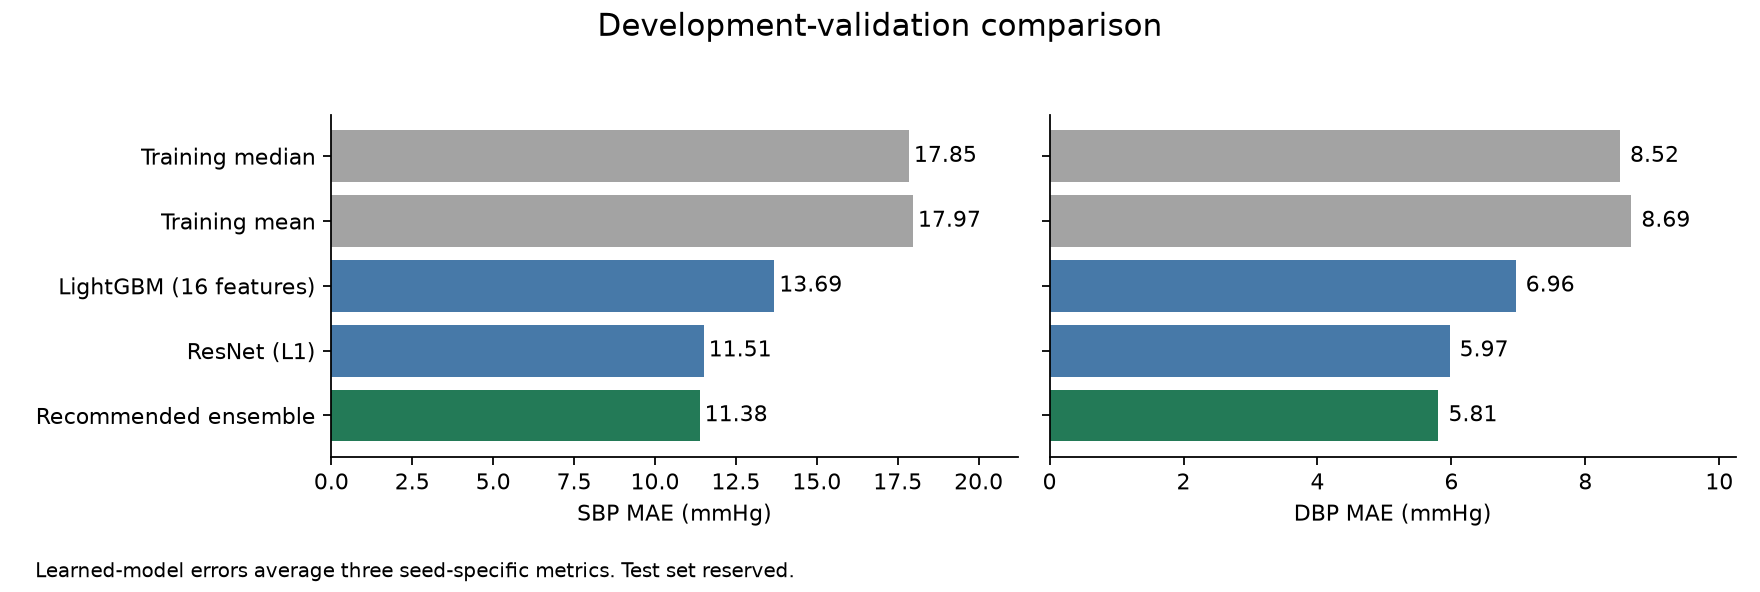
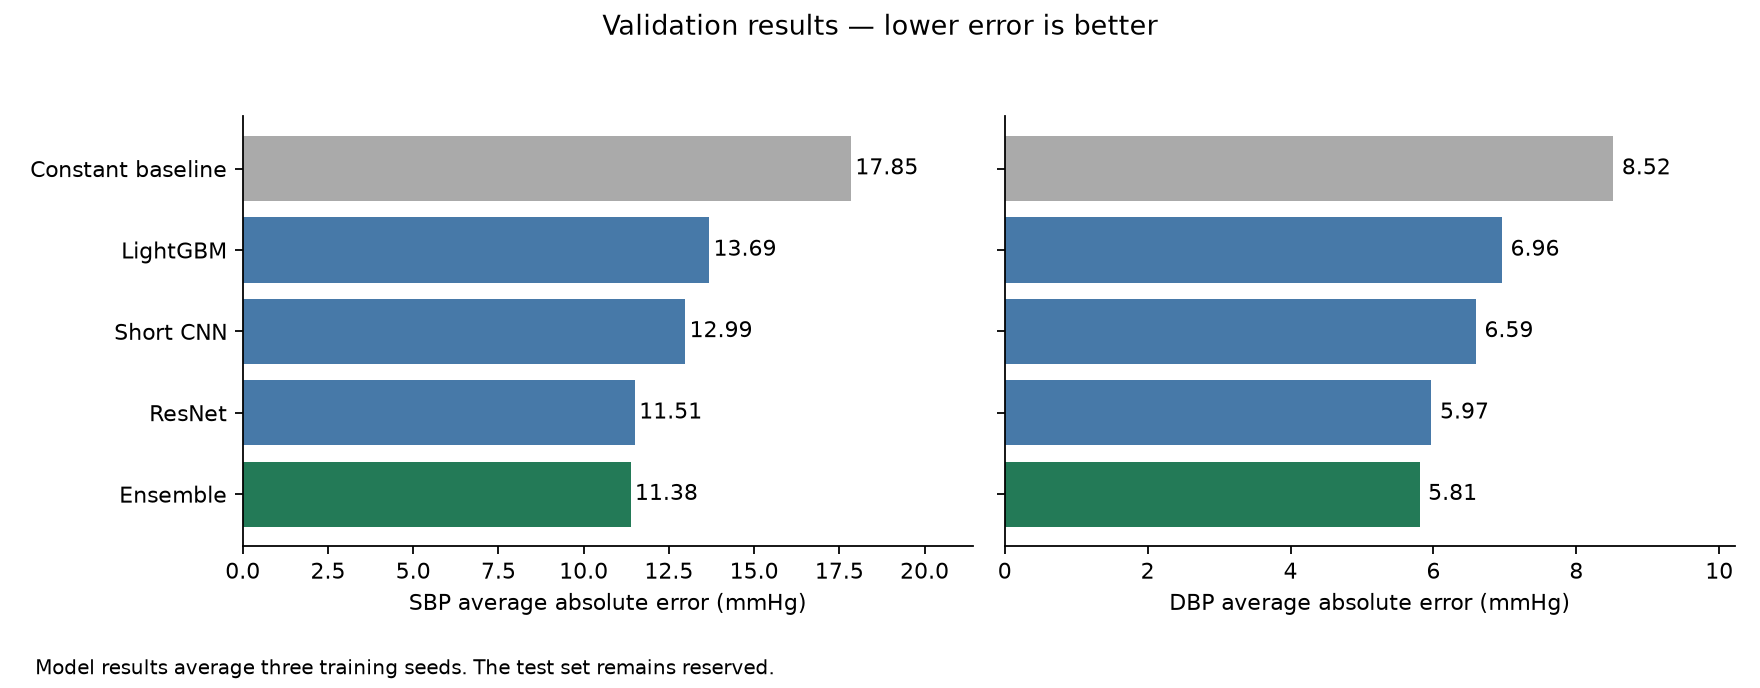
Include standalone CNN in the model comparison

Changed region(s): [[0.0, 0.1824, 1.0, 0.9122], [0.0, 0.9426, 0.4688, 1.0], [0.3438, 0.0, 0.6562, 0.0608]]

diff --git a/README.md b/README.md
@@ -77,6 +77,7 @@ The recommended ensemble combines 80% multi-task ResNet, 13% short CNN and 7% Li
 |---|---:|---:|---:|---:|
 | Training median | 17.85 | 8.52 | 21.98 | 11.48 |
 | LightGBM, sixteen PPG features | 13.69 | 6.96 | 18.12 | 9.87 |
+| Short CNN | 12.99 | 6.59 | 17.21 | 9.49 |
 | Kernel-seven ResNet, L1 | 11.51 | 5.97 | 15.85 | 9.10 |
 | **Recommended ensemble** | **11.38** | **5.81** | **15.57** | **8.87** |
 
